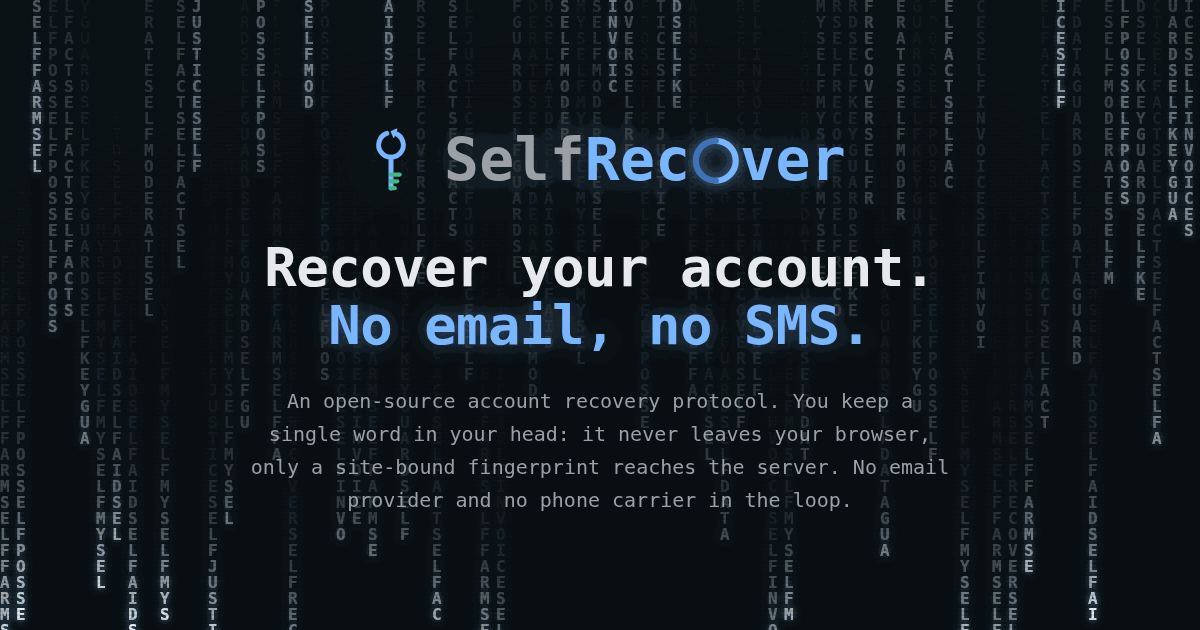
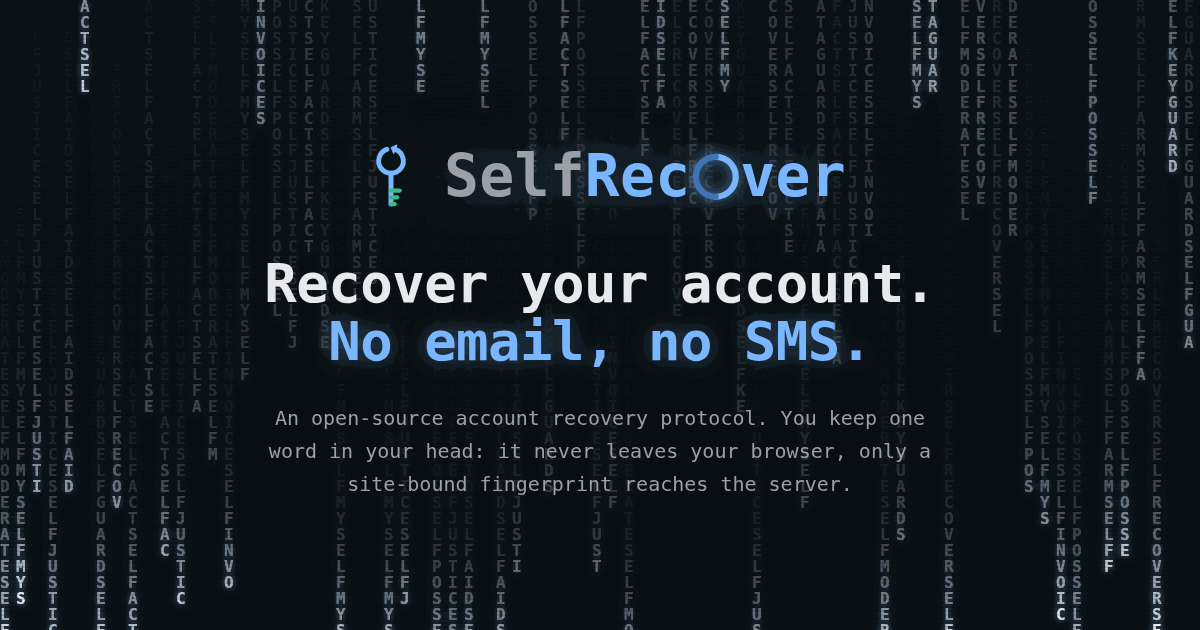
selfrecover.fr : ce que la relecture contre le code a corrigé
- « en base, il ne garde que des hachages Argon2id » était faux : le sel, la clé
  publique de l'appareil et les messages du niveau 3 y sont aussi. Ce sont les
  secrets qui ne sont rangés qu'en Argon2id ;
- niveau 3 : le titulaire redéfinit son mot de passe et son mot, le serveur lui
  remet une passphrase et des codes neufs ;
- la démo simule une copie de la page servie ailleurs, elle n'ouvre pas une
  fausse page de connexion ; l'étiquette fixe perd la parade au hameçonnage
  passif ;
- deux limites de plus, tirées du modèle de menace : la passphrase volée, dont
  le voleur reçoit la remplaçante, et le poste compromis ;
- SelfDataGuard : l'enveloppe par secret est possible, pas acquise, et son revers
  est dit ; le séquestre administrateur est nommé ;
- le schéma de base vise SQLite ; SelfRecover-LUKS et les règles red team ont
  leur lien ;
- relecture de la prose : deux chapeaux et deux puces qui redisaient une autre
  section partent ; l'anglais dit « open source » partout.

diff --git a/web/selfrecover.fr/index.html b/web/selfrecover.fr/index.html
@@ -63,9 +63,8 @@
     <span class="wm" aria-hidden="true"><span class="self">Self</span><span class="rec">Rec</span><svg class="oarc" viewBox="0 0 100 100" fill="none"><path d="M50 8 A42 42 0 0 1 50 92" stroke="#7ab7ff" stroke-width="13" stroke-linecap="round"/><path d="M50 92 A42 42 0 0 1 50 8" stroke="#3f74b8" stroke-width="13" stroke-linecap="round"/></svg><span class="rec">ver</span></span>
   </div>
   <h1>Récupère ton compte. <em>Sans email, sans SMS.</em></h1>
-  <p class="sub">Un protocole libre de récupération de compte. Tu ne retiens qu'un mot&nbsp;: il ne quitte
-    jamais ton navigateur, seule une empreinte liée au site part au serveur. Aucun fournisseur d'email
-    ni opérateur téléphonique dans la boucle.</p>
+  <p class="sub">Un protocole libre de récupération de compte. Tu retiens un mot&nbsp;: il ne quitte jamais
+    ton navigateur, seule une empreinte liée au site part au serveur.</p>
   <div class="cta">
     <a class="btn btn-p" href="https://bi-self.example.org/recover">Essayer la démo →</a>
     <a class="btn btn-g" href="#how">Comment ça marche</a>
@@ -86,7 +85,6 @@
   <section id="how"><div class="wrap">
     <p class="eyebrow">Comment ça marche</p>
     <h2>Ce que tu sais devient ta clé.</h2>
-    <p class="lead">Trois idées, toutes lisibles dans le code.</p>
     <div class="grid3">
       <div class="card">
         <div class="ic" aria-hidden="true">◐</div>
@@ -101,13 +99,13 @@
         <p>En mode nom d'hôte, l'empreinte dépend de l'adresse que lit ton navigateur&nbsp;: une copie de la
           page servie ailleurs dérive une empreinte <em class="tl">sans valeur</em> ici. Le prix&nbsp;: changer
           d'adresse fait perdre le niveau&nbsp;2 aux comptes existants. Le service peut choisir une étiquette
-          fixe à la place, qui survit au changement d'adresse mais ne protège plus du hameçonnage.</p>
+          fixe à la place, qui survit au changement d'adresse mais ne protège plus du hameçonnage passif.</p>
       </div>
       <div class="card">
         <div class="ic" aria-hidden="true">∅</div>
         <h3>Ce que voit le serveur</h3>
         <p>Ton mot, jamais&nbsp;: il ne reçoit que son empreinte. La passphrase et le mot de passe, eux,
-          passent par lui quand ils servent. En base, il ne garde que des
+          passent par lui quand ils servent. Tes secrets, il ne les range que sous forme de
           <em class="tl">hachages Argon2id</em>.</p>
       </div>
     </div>
@@ -140,7 +138,8 @@
         <h3>L'humain</h3>
         <p>Tout perdu&nbsp;? Tu présentes un faisceau de faits, un administrateur humain tranche.
           <em class="tl">Jamais</em> de score ni de réinitialisation automatique, et un refus ne touche
-          jamais au compte. En cas d'accord, c'est toi qui redéfinis tes secrets.</p>
+          jamais au compte. En cas d'accord, tu redéfinis toi-même ton mot de passe et ton mot&nbsp;; une
+          passphrase et des codes neufs te sont remis.</p>
         <span class="ghost" aria-hidden="true">L3</span>
       </div>
     </div>
@@ -151,8 +150,8 @@
       <p class="eyebrow">Teste-le</p>
       <h2>Une démo tourne en ligne.</h2>
       <p class="lead">Inscris-toi <b>sans email</b>, perds volontairement ton accès, récupère-le aux
-        niveaux&nbsp;1 et&nbsp;2, puis regarde une fausse page de connexion échouer. C'est le vrai code de la
-        bibliothèque, dans un bac à sable qui expire au bout de 30&nbsp;minutes.</p>
+        niveaux&nbsp;1 et&nbsp;2, puis regarde, en simulation, une copie de la page servie ailleurs produire une
+        empreinte refusée. C'est le vrai code de la bibliothèque, dans un bac à sable qui expire au bout de 30&nbsp;minutes.</p>
       <a class="btn btn-p" href="https://bi-self.example.org/recover">Ouvrir la démo →</a>
     </div>
   </div></section>
@@ -160,11 +159,15 @@
   <section id="limits" class="limits"><div class="wrap">
     <p class="eyebrow">Limites</p>
     <h2>Ce que SelfRecover ne couvre pas.</h2>
-    <p class="lead">Un protocole de sécurité se juge aussi à ce qu'il déclare hors de sa portée.</p>
+    <p class="lead">Ces limites sont celles que déclare le modèle de menace de SelfRecover, que son README
+      détaille.</p>
     <ul class="ticks">
       <li>Un accès root au serveur contourne tout le protocole.</li>
-      <li>Une page piégée qui capte ton mot au moment où tu le tapes reste hors d'atteinte, comme pour tout
-        protocole qui vit dans le navigateur.</li>
+      <li>Comme tout protocole qui vit dans le navigateur, SelfRecover ne protège ni d'une page piégée qui
+        capte ton mot pendant que tu le tapes (hameçonnage actif), ni d'un poste compromis par un
+        enregistreur de frappe.</li>
+      <li>Une passphrase volée ouvre le compte une fois, et c'est le voleur qui reçoit la neuve&nbsp;: rien
+        ne te prévient. Tu le découvres quand ton mot de passe cesse de marcher.</li>
       <li>Réutiliser ton mot sur un site malveillant le lui livre&nbsp;: la dérivation par site empêche de
         croiser les bases, pas cette fuite-là. Un mot propre à chaque service reste plus sûr.</li>
       <li>Un mot faible reste attaquable&nbsp;: les freins de débit et le niveau&nbsp;3 humain le ralentissent,
@@ -178,10 +181,10 @@
     <div class="os">
       <div>
         <p class="eyebrow">Libre jusqu'au code</p>
-        <h2>Rien à croire. Tout à vérifier.</h2>
+        <h2>Le code est public. Vérifie-le.</h2>
         <p class="lead">SelfRecover est un logiciel <b>libre</b>&nbsp;: auto-héberge-le, audite-le,
           intègre-le à ton service. Une bibliothèque PHP qui ne demande que des extensions standard, le
-          dériveur navigateur livré avec, et un schéma de base prêt à l'emploi.</p>
+          dériveur navigateur livré avec, et un schéma de base prêt à l'emploi pour SQLite.</p>
         <p class="lead">Elle s'installe par Composer depuis le dépôt&nbsp;; elle n'est pas encore publiée sur
           Packagist ni sur npm. Le <a class="lnk" href="https://github.com/Pierroons/my-self/blob/main/bi-self/selfrecover/README.fr.md">README</a>
           décrit le protocole, son modèle de menace et son intégration.</p>
@@ -199,9 +202,7 @@
         <h3>Ce que ça change pour toi</h3>
         <ul class="ticks">
           <li>Plus de lien de réinitialisation qui dort dans une boîte mail.</li>
-          <li>Plus de numéro de téléphone confié au service.</li>
-          <li>En mode nom d'hôte, une copie du site n'obtient qu'une empreinte inutilisable chez le vrai.</li>
-          <li>Si tout est perdu, un humain tranche, pas un algorithme.</li>
+          <li>Plus besoin de confier ton numéro de téléphone pour récupérer ton compte.</li>
         </ul>
       </div>
     </div>
@@ -217,21 +218,22 @@
       <div class="card">
         <div class="ic ic-teal" aria-hidden="true">▨</div>
         <h3>Chiffré au repos</h3>
-        <p>Les champs confiés à SelfDataGuard sortent d'un dump <em class="tl">chiffrés</em>&nbsp;: il faut
-          l'un de tes secrets pour les rouvrir. Pendant une session ouverte, le serveur tient la clé en
+        <p>Dans un dump de la base, les champs confiés à SelfDataGuard restent <em class="tl">chiffrés</em>&nbsp;:
+          il faut l'un de tes secrets pour les rouvrir, hors séquestre administrateur s'il est employé. Pendant une session ouverte, le serveur tient la clé en
           mémoire.</p>
       </div>
       <div class="card">
         <div class="ic ic-teal" aria-hidden="true">⧉</div>
         <h3>Plusieurs serrures</h3>
-        <p>Ta clé de données est scellée sous chacun de tes secrets&nbsp;: mot de passe, mot mémorisé,
-          passphrase. Chacun l'ouvre seul&nbsp;: quand le service les scelle tous, en oublier un ne te fait
-          pas perdre tes données.</p>
+        <p>Ta clé de données peut être scellée sous chacun de tes secrets&nbsp;: mot de passe, mot mémorisé,
+          passphrase. Chacun l'ouvre seul&nbsp;: si le service les scelle tous, en oublier un ne te fait pas
+          perdre tes données. Le revers&nbsp;: avec un dump de la base, un seul secret volé suffit à les
+          ouvrir.</p>
       </div>
       <div class="card">
         <div class="ic ic-teal" aria-hidden="true">⚷</div>
         <h3>Le même principe pour ton disque</h3>
-        <p>SelfRecover-LUKS déverrouille un volume chiffré LUKS2 avec une passphrase de récupération propre
+        <p><a class="lnk" href="https://github.com/Pierroons/my-self/tree/main/self-security/selfrecover-luks">SelfRecover-LUKS</a> déverrouille un volume chiffré LUKS2 avec une passphrase de récupération propre
           à chaque machine, distincte de ton mot&nbsp;: aucun des deux n'ouvre l'autre.</p>
       </div>
     </div>
@@ -246,7 +248,10 @@
       <h2>MySelf-Lab, le forum de démonstration.</h2>
       <p class="lead">Un forum dont les comptes reposent sur SelfRecover, niveau&nbsp;3 et appareil enrôlé
         compris. Son contenu est fictif, et il est ouvert à la red team&nbsp;: essaie de le casser.</p>
-      <a class="btn btn-g" href="https://ctf.example.org">Entrer dans le lab →</a>
+      <div class="cta">
+        <a class="btn btn-g" href="https://ctf.example.org">Entrer dans le lab →</a>
+        <a class="btn btn-g" href="https://ctf.example.org/redteam.php">Règles red team →</a>
+      </div>
     </div>
   </div></section>
 </main>

diff --git a/web/selfrecover.fr/en/index.html b/web/selfrecover.fr/en/index.html
@@ -63,9 +63,8 @@
     <span class="wm" aria-hidden="true"><span class="self">Self</span><span class="rec">Rec</span><svg class="oarc" viewBox="0 0 100 100" fill="none"><path d="M50 8 A42 42 0 0 1 50 92" stroke="#7ab7ff" stroke-width="13" stroke-linecap="round"/><path d="M50 92 A42 42 0 0 1 50 8" stroke="#3f74b8" stroke-width="13" stroke-linecap="round"/></svg><span class="rec">ver</span></span>
   </div>
   <h1>Recover your account. <em>No email, no SMS.</em></h1>
-  <p class="sub">An open-source account recovery protocol. You keep a single word in your head: it never
-    leaves your browser, only a site-bound fingerprint reaches the server. No email provider and no
-    phone carrier in the loop.</p>
+  <p class="sub">An open-source account recovery protocol. You keep one word in your head: it never leaves
+    your browser, only a site-bound fingerprint reaches the server.</p>
   <div class="cta">
     <a class="btn btn-p" href="https://bi-self.example.org/recover">Try the demo →</a>
     <a class="btn btn-g" href="#how">How it works</a>
@@ -85,7 +84,6 @@
   <section id="how"><div class="wrap">
     <p class="eyebrow">How it works</p>
     <h2>What you know becomes your key.</h2>
-    <p class="lead">Three ideas, all readable in the code.</p>
     <div class="grid3">
       <div class="card">
         <div class="ic" aria-hidden="true">◐</div>
@@ -100,13 +98,13 @@
         <p>In hostname mode, the fingerprint depends on the address your browser reads: a copy of the page
           served elsewhere derives a fingerprint that is <em class="tl">worthless</em> here. The price:
           changing the address costs existing accounts their level&nbsp;2. A service can pick a fixed label
-          instead, which survives an address change but no longer protects against phishing.</p>
+          instead, which survives an address change but no longer protects against passive phishing.</p>
       </div>
       <div class="card">
         <div class="ic" aria-hidden="true">∅</div>
         <h3>What the server sees</h3>
         <p>Your word, never: it only receives its fingerprint. The passphrase and the password do pass
-          through it when they are used. In its database it keeps only
+          through it when they are used. Your secrets are stored only as
           <em class="tl">Argon2id hashes</em>.</p>
       </div>
     </div>
@@ -137,7 +135,8 @@
         <h3>The human</h3>
         <p>Lost everything? You present a bundle of facts, and a human administrator decides.
           <em class="tl">Never</em> a score or an automatic reset, and a refusal never touches the account.
-          If approved, you set your secrets again yourself.</p>
+          If approved, you set your password and your word again yourself; a new passphrase and new codes
+          are issued to you.</p>
         <span class="ghost" aria-hidden="true">L3</span>
       </div>
     </div>
@@ -148,7 +147,8 @@
       <p class="eyebrow">Try it</p>
       <h2>A demo is running online.</h2>
       <p class="lead">Sign up <b>without email</b>, lose your access on purpose, recover it at levels&nbsp;1
-        and&nbsp;2, then watch a fake login page fail. It is the library's real code, in a sandbox that
+        and&nbsp;2, then watch, in a simulation, a copy of the page served elsewhere produce a rejected
+        fingerprint. It is the library's real code, in a sandbox that
         expires after 30&nbsp;minutes.</p>
       <a class="btn btn-p" href="https://bi-self.example.org/recover">Open the demo →</a>
     </div>
@@ -157,11 +157,14 @@
   <section id="limits" class="limits"><div class="wrap">
     <p class="eyebrow">Limits</p>
     <h2>What SelfRecover does not cover.</h2>
-    <p class="lead">A security protocol is also judged by what it declares out of its reach.</p>
+    <p class="lead">These are the limits SelfRecover's threat model declares; its README details them.</p>
     <ul class="ticks">
       <li>Root access to the server bypasses the whole protocol.</li>
-      <li>A rigged page that captures your word as you type it stays out of reach, as for any protocol that
-        lives in the browser.</li>
+      <li>Like any protocol that lives in the browser, SelfRecover protects neither against a rigged page
+        that captures your word as you type it (active phishing), nor against a device compromised by a
+        keylogger.</li>
+      <li>A stolen passphrase opens the account once, and the thief receives the new one: nothing warns
+        you. You find out when your password stops working.</li>
       <li>Reusing your word on a malicious site hands it over: per-site derivation prevents cross-matching
         databases, not that leak. A word unique to each service remains safer.</li>
       <li>A weak word remains attackable: rate limits and the human level&nbsp;3 slow it down, the derivation
@@ -175,16 +178,16 @@
     <div class="os">
       <div>
         <p class="eyebrow">Open down to the code</p>
-        <h2>Nothing to trust. Everything to verify.</h2>
-        <p class="lead">SelfRecover is <b>free software</b>: self-host it, audit it, integrate it into your
+        <h2>The code is public. Check it.</h2>
+        <p class="lead">SelfRecover is <b>open source</b>: self-host it, audit it, integrate it into your
           service. A PHP library that needs only standard extensions, the browser deriver shipped with it,
-          and a ready-to-use database schema.</p>
+          and a database schema ready to use with SQLite.</p>
         <p class="lead">It installs with Composer from the repository; it is not yet published on Packagist
           or npm. The <a class="lnk" href="https://github.com/Pierroons/my-self/blob/main/bi-self/selfrecover/README.md">README</a>
           describes the protocol, its threat model and how to integrate it.</p>
         <div class="badges">
           <span class="pill"><b>AGPL-3.0</b>-or-later</span>
-          <span class="pill">Zero <b>third party</b></span>
+          <span class="pill">No <b>third party</b></span>
           <span class="pill"><b>MySelf</b> module</span>
         </div>
         <div class="cta cta-start">
@@ -196,9 +199,7 @@
         <h3>What it changes for you</h3>
         <ul class="ticks">
           <li>No more reset link sitting in an inbox.</li>
-          <li>No more phone number handed to the service.</li>
-          <li>In hostname mode, a copy of the site gets only a fingerprint that is useless on the real one.</li>
-          <li>If everything is lost, a human decides, not an algorithm.</li>
+          <li>No need to hand over your phone number to recover your account.</li>
         </ul>
       </div>
     </div>
@@ -214,19 +215,20 @@
       <div class="card">
         <div class="ic ic-teal" aria-hidden="true">▨</div>
         <h3>Encrypted at rest</h3>
-        <p>Fields handed to SelfDataGuard leave a dump <em class="tl">encrypted</em>: one of your secrets is
-          needed to reopen them. During an open session, the server holds the key in memory.</p>
+        <p>In a database dump, fields handed to SelfDataGuard stay <em class="tl">encrypted</em>: one of your
+          secrets is needed to reopen them, except an admin escrow if one is used. During an open session, the server holds the key in memory.</p>
       </div>
       <div class="card">
         <div class="ic ic-teal" aria-hidden="true">⧉</div>
         <h3>Several locks</h3>
-        <p>Your data key is sealed under each of your secrets: password, memorized word, passphrase. Each one
-          opens it alone: when the service seals them all, forgetting one does not cost you your data.</p>
+        <p>Your data key can be sealed under each of your secrets: password, memorized word, passphrase. Each
+          one opens it alone: if the service seals all of them, forgetting one does not cost you your data.
+          The flip side: with a database dump, a single stolen secret is enough to open it.</p>
       </div>
       <div class="card">
         <div class="ic ic-teal" aria-hidden="true">⚷</div>
         <h3>The same idea for your disk</h3>
-        <p>SelfRecover-LUKS unlocks a LUKS2 encrypted volume with a recovery passphrase unique to each
+        <p><a class="lnk" href="https://github.com/Pierroons/my-self/tree/main/self-security/selfrecover-luks">SelfRecover-LUKS</a> unlocks a LUKS2 encrypted volume with a recovery passphrase unique to each
           machine, separate from your word: neither one opens the other.</p>
       </div>
     </div>
@@ -241,7 +243,10 @@
       <h2>MySelf-Lab, the demonstration forum.</h2>
       <p class="lead">A forum whose accounts rest on SelfRecover, level&nbsp;3 and enrolled device included.
         Its content is fictional, and it is open to red teams: try to break it.</p>
-      <a class="btn btn-g" href="https://ctf.example.org">Enter the lab →</a>
+      <div class="cta">
+        <a class="btn btn-g" href="https://ctf.example.org">Enter the lab →</a>
+        <a class="btn btn-g" href="https://ctf.example.org/redteam.php">Red team rules →</a>
+      </div>
     </div>
   </div></section>
 </main>

diff --git a/web/selfrecover.fr/README.md b/web/selfrecover.fr/README.md
@@ -34,7 +34,7 @@ dossier publierait donc des liens vers `example.org`.
 ## Ce que le texte affirme
 
 Chaque phrase sur le protocole s'appuie sur le README de SelfRecover et sur son modèle de menace
-(`bi-self/selfrecover/`). Quand la bibliothèque change, c'est là qu'on relit avant de toucher au
+(`bi-self/selfrecover/`). Quand la bibliothèque change, c'est là que tu relis avant de toucher au
 texte d'ici. La section « Limites » reprend ce que le modèle de menace déclare hors de sa portée.
 
 ## Version
